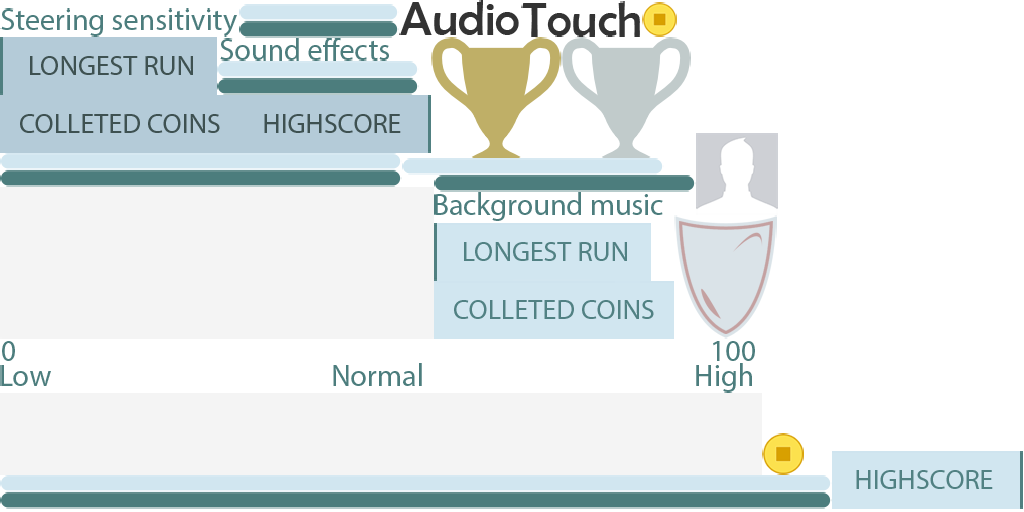
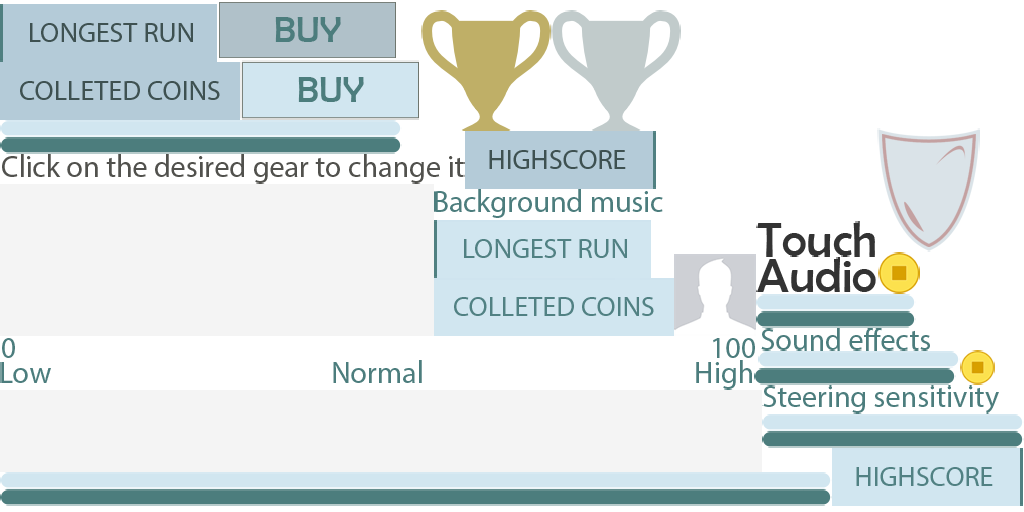
Added basis for new loadout menu MVC

diff --git a/Bullet-Inferno/src/se/dat255/bulletinferno/controller/LoadoutController.java b/Bullet-Inferno/src/se/dat255/bulletinferno/controller/LoadoutController.java
@@ -5,6 +5,7 @@ import se.dat255.bulletinferno.model.loadout.SpecialAbilityDefinition;
 import se.dat255.bulletinferno.model.weapon.WeaponDefinition;
 import se.dat255.bulletinferno.util.ResourceManager;
 import se.dat255.bulletinferno.util.TextureDefinitionImpl;
+import se.dat255.bulletinferno.view.menu.LoadoutView;
 import se.dat255.bulletinferno.view.menu.PassiveButton;
 import se.dat255.bulletinferno.view.menu.PassiveButtonsView;
 import se.dat255.bulletinferno.view.menu.SpecialButton;
@@ -49,9 +50,9 @@ public class LoadoutController extends SimpleController {
 	private Label errorMessage;
 	private Table table;
 
-	private final WeaponButtonsView weaponButtonsView;
-	private final SpecialButtonsView specialButtonsView;
-	private final PassiveButtonsView passiveButtonsView;
+	private  WeaponButtonsView weaponButtonsView;
+	private  SpecialButtonsView specialButtonsView;
+	private  PassiveButtonsView passiveButtonsView;
 	private Image tableLabel;
 
 	private Label standardLabel;
@@ -59,6 +60,8 @@ public class LoadoutController extends SimpleController {
 	private Label specialLabel;
 	private Label passiveLabel;
 
+	private final LoadoutView view;
+	
 	/**
 	 * Main controller used for the loadout screen
 	 * 
@@ -73,7 +76,10 @@ public class LoadoutController extends SimpleController {
 
 		stage = new Stage(Gdx.graphics.getWidth(), Gdx.graphics.getHeight(), false);
 		skin = new Skin();
-
+		
+		view = new LoadoutView(resourceManager, stage);
+		
+		/*
 		setupBackground(resourceManager);
 
 		// Generate a 1x1 white texture and store it in the skin named "white".
@@ -105,7 +111,7 @@ public class LoadoutController extends SimpleController {
 
 		setupErrorMessage();
 
-		setupLabelsForSelectionButtons(labelStyle);
+		setupLabelsForSelectionButtons(labelStyle);*/
 	}
 
 	private void setupBackground(final ResourceManager resourceManager) {
@@ -153,17 +159,18 @@ public class LoadoutController extends SimpleController {
 	@Override
 	public void render(float delta) {
 		// Clear the screen every frame
-		Gdx.gl.glClearColor(1, 1, 1, 1);
-		Gdx.gl.glClear(GL10.GL_COLOR_BUFFER_BIT);
-		Table.drawDebug(stage);
+		//Gdx.gl.glClearColor(1, 1, 1, 1);
+		//Gdx.gl.glClear(GL10.GL_COLOR_BUFFER_BIT);
+		
 
 		stage.act(Math.min(Gdx.graphics.getDeltaTime(), 1 / 30f));
 		stage.draw();
+		Table.drawDebug(stage);
 	}
 
 	@Override
 	public void resize(int width, int height) {
-		stage.setViewport(VIRTUAL_WIDTH, VIRTUAL_HEIGHT, false);
+		//stage.setViewport(VIRTUAL_WIDTH, VIRTUAL_HEIGHT, false);
 	}
 
 	@Override

diff --git a/Bullet-Inferno/src/se/dat255/bulletinferno/view/menu/LoadoutView.java b/Bullet-Inferno/src/se/dat255/bulletinferno/view/menu/LoadoutView.java
@@ -1,0 +1,55 @@
+package se.dat255.bulletinferno.view.menu;
+
+import se.dat255.bulletinferno.util.Disposable;
+import se.dat255.bulletinferno.util.ResourceManager;
+import se.dat255.bulletinferno.util.TextureDefinitionImpl;
+
+import com.badlogic.gdx.scenes.scene2d.Stage;
+import com.badlogic.gdx.scenes.scene2d.ui.Image;
+import com.badlogic.gdx.scenes.scene2d.ui.Table;
+
+public class LoadoutView implements Disposable {
+	public final static int VIRTUAL_HEIGHT = 1080, VIRTUAL_WIDTH = 1920;
+	
+	private final static int TABLE_X = 390, GLASS_WIDTH = 1113;
+	
+	private final ResourceManager resources;
+	private final Stage stage;
+	private final Table table;
+	private final MenuBackgroundView backgroundView;
+	
+	public LoadoutView(ResourceManager resources, Stage stage) {
+		this.resources = resources;
+		this.stage = stage;
+		
+		if(stage.getHeight() != VIRTUAL_HEIGHT || stage.getWidth() != VIRTUAL_WIDTH) {
+			stage.setViewport(VIRTUAL_WIDTH, VIRTUAL_HEIGHT, false);
+		}
+		
+		backgroundView = new MenuBackgroundView(stage, resources);
+		
+		table = new Table();
+		table.setSize(GLASS_WIDTH, VIRTUAL_HEIGHT);
+		table.top();
+		table.setPosition(TABLE_X, 0);
+		table.setBackground(resources.getDrawableTexture(TextureDefinitionImpl.LOADOUTMENU_GLASS));
+		
+		
+		table.add(new Image(resources.getDrawableTexture(TextureDefinitionImpl.LOADOUTMENU_HEADER))
+					).padTop(120);
+		table.row();
+		table.add(new Image(
+				resources.getDrawableTexture(TextureDefinitionImpl.LOADOUTMENU_CLICK_INSTRUCTIONS)
+				)).padTop(20);
+		
+		table.debug();
+		stage.addActor(table);
+	}
+
+	@Override
+	public void dispose() {
+		stage.getRoot().removeActor(table);
+		backgroundView.dispose();
+	}
+
+}

diff --git a/Bullet-Inferno/src/se/dat255/bulletinferno/util/TextureDefinitionImpl.java b/Bullet-Inferno/src/se/dat255/bulletinferno/util/TextureDefinitionImpl.java
@@ -144,7 +144,12 @@ public enum TextureDefinitionImpl implements TextureDefinition {
 	MENU_STORE_BAR_3_LIGHT(textureAtlas("images/gui/menulabels.atlas", "storebar3_light")),
 	MENU_STORE_BAR_4_LIGHT(textureAtlas("images/gui/menulabels.atlas", "storebar4_light")),
 	MENU_STORE_BAR_5_LIGHT(textureAtlas("images/gui/menulabels.atlas", "storebar5_light")), 
-	SHIELD_LVL_1(textureAtlas("images/gui/menulabels.atlas", "storeshield"))
+	SHIELD_LVL_1(textureAtlas("images/gui/menulabels.atlas", "storeshield")), 
+	
+	LOADOUTMENU_CLICK_INSTRUCTIONS(textureAtlas("images/gui/menulabels.atlas", "loadoutclikinstruction")), 
+	LOADOUTMENU_HEADER(textureAtlas("images/gui/menuheadings.atlas", "loadoutheader")), 
+	LOADOUTMENU_GLASS(texture("images/gui/loadoutglass.png")),
+	LOADOUTMENU_GLASS_SELECT(texture("images/gui/loadoutselectionglass.png"))
 	;
 
 	private TextureHolder holder;
